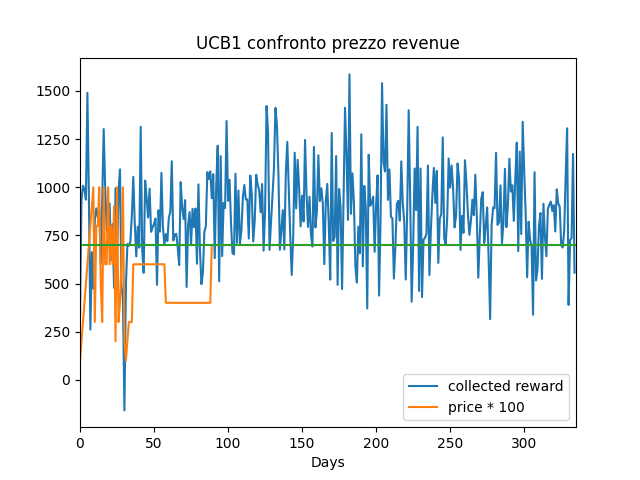
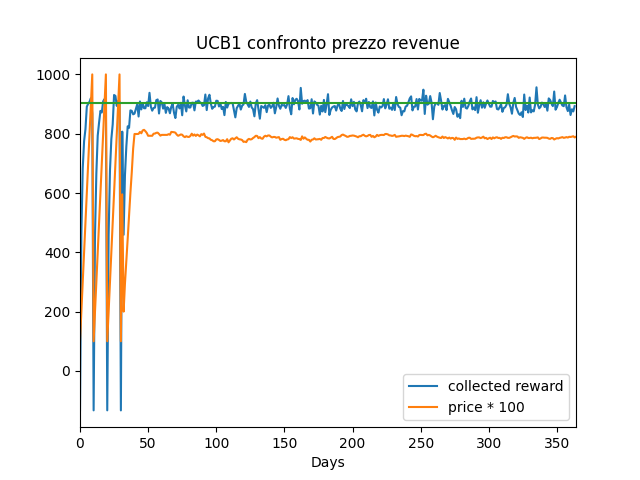
now p3 kind of works

diff --git a/P3.py b/P3.py
@@ -14,11 +14,11 @@ env = Environment()
 #prices range
 prices = numpy.linspace(1, 10, num=10)
 # bids range
-bids = [0.7]
+bids = [0.6]
 # day of algorithm execution
-T = 365
+T = 394
 # How many computation exectute
-N = 1
+N = 200
 
 
 def iterate_days(results_queue, idx=0):
@@ -70,6 +70,9 @@ def iterate_days(results_queue, idx=0):
             for c in range(new_users[user]):
                 daily_bought_items_per_class_ucb1[user] += env.buy(daily_price_ucb1, user + 1)
                 daily_bought_items_per_class_ts[user] += env.buy(daily_price_ts, user + 1)
+            '''daily_bought_items_per_class_ucb1[user] = round(env.get_conversion_rate(daily_price_ucb1, user + 1) * new_users[user])
+            daily_bought_items_per_class_ts[user] = round(env.get_conversion_rate(daily_price_ts, user + 1) * new_users[user])'''
+
 
         # Sum up the n. of bought items
         daily_bought_items_ucb1 = sum(daily_bought_items_per_class_ucb1)
@@ -86,10 +89,9 @@ def iterate_days(results_queue, idx=0):
         # Get delayed rewards
         next_30_days = [0] * 30
         for user in range(1, 4):
-            next_30_days = [
-                next_30_days[j] + env.get_next_30_days(daily_bought_items_per_class_ucb1[user - 1], daily_price_ucb1,
-                                                       user)[j]
-                for j in range(len(next_30_days))]
+            next_30_days = list(
+                map(add, next_30_days, env.get_next_30_days(daily_bought_items_per_class_ucb1[user - 1], daily_price_ucb1,
+                                                            user)))
         # point-wise list sum
         ucb1_learner.update_observations(daily_arm_ucb1, daily_revenue_ucb1, next_30_days)
 
@@ -167,7 +169,7 @@ if __name__ == '__main__':
     plots_folder = os.path.join(cwd, "plots")
     print("Plots folder: " + plots_folder)
 
-    value_line_to_plot = 700
+    value_line_to_plot = 904
     plot_line = True
 
     # Plot collected rewards
@@ -215,3 +217,24 @@ if __name__ == '__main__':
     pyplot.title('TS confronto prezzo revenue')
     pyplot.xlabel('Days')
     pyplot.savefig(os.path.join(plots_folder, 'TS confronto prezzo revenue.png'))
+
+    #calculate and plot mean regret
+    best_possible_reward = 904
+    mean_regret_ts = [best_possible_reward * x for x in range(1,T-28)]
+    mean_regret_ts = numpy.array(mean_regret_ts)
+
+    mean_regret_ts = numpy.add( mean_regret_ts , -1 * numpy.cumsum(mean_collected_rewards_ts))
+
+    mean_regret_ucb1 = [best_possible_reward * x for x in range(1,T-29)]
+
+    mean_regret_ucb1 = mean_regret_ucb1 - numpy.cumsum(mean_collected_rewards_ucb1)
+
+    pyplot.figure()
+    pyplot.plot(mean_regret_ts)
+    pyplot.plot(mean_regret_ucb1)
+
+    pyplot.legend(['mean_regret_ts', 'mean_regret_ucb1'])
+    pyplot.xlim([0, T - 30])
+    pyplot.title('confronto regret')
+    pyplot.xlabel('Days')
+    pyplot.savefig(os.path.join(plots_folder, 'confronto regret.png'))

diff --git a/ucb1.py b/ucb1.py
@@ -17,12 +17,14 @@ class UCB1Learner(Learner):
         :return: the arm to be pulled at the next round
         """
 
-        if self.t < 10:
+        if self.t <= 30:
             arm = self.t % self.n_arms
 
         else:
             upper_bound = self.empirical_means + self.confidence
+            #print('upper_bound: ' + str(upper_bound))
             arm = np.random.choice(np.where(upper_bound == upper_bound.max())[0])
+            #print('arm:' + str(arm))
 
         return arm
 
@@ -33,6 +35,9 @@ class UCB1Learner(Learner):
         :param delayedr: The future 30 rewards (delayed rewards)
         :return: none
         """
+
+        #print('arm, reward: ' + str(pulled_arm) + ', ' + str(sum(delayedr)+reward))
+
         if self.t <= 30:
             self.last30dayschoice.append(pulled_arm)
             self.delayedreward.append(sum(delayedr)+reward)
@@ -42,12 +47,11 @@ class UCB1Learner(Learner):
             self.delayedreward.pop(0)
             self.delayedreward.append(sum(delayedr)+reward)
 
-        # print(self.delayedreward)
+        #print('last30dayschoice: ' + str(self.last30dayschoice))
+        #print('delayedreward: ' + str(self.delayedreward))
 
-        if self.t==1:
-            # just remove the empty list at the beginning
-            self.delayedreward.pop(0)
-        elif self.t >= 30:
+
+        if self.t >= 30:
             self.collected_rewards=np.append(self.collected_rewards,self.delayedreward[0])
             self.rewards_per_arm[self.last30dayschoice[0]] += self.collected_rewards[-1]
             self.n_pulled_arms[self.last30dayschoice[0]] += 1
@@ -63,3 +67,5 @@ class UCB1Learner(Learner):
 
         # print("Collected rewards:")
         # print(self.collected_rewards)
+
+        #print('------')

diff --git a/P1.py b/P1.py
@@ -24,6 +24,9 @@ def get_bid_and_price_revenue(bid, price, customer_class):
 
     purchases = new_users_daily * buy_percentage
     revenue = purchases * (1+mean_comebacks) * env.get_margin(price) - new_users_daily * cost_per_click
+
+    print('bid, price, customer_class, revenue: ' + str(bid) +str(', ') + str(price) +str(', ')+ str(customer_class) +str(', ')+ str(revenue))
+
     return revenue
 
 
@@ -59,8 +62,8 @@ revenuesmatrix = revenuesmatrix.reshape(bids.size, prices.size)
 
 for i in range(bids.size):
     for j in range(prices.size):
-        for c in range(1, 4):
-            revenuesmatrix[i][j] += get_bid_and_price_revenue(bids[i], prices[j], c)
+        revenuesmatrix[i][j] = get_bid_and_price_revenue(bids[i], prices[j], 1) + get_bid_and_price_revenue(bids[i], prices[j], 2) +  get_bid_and_price_revenue(bids[i], prices[j], 3)
+
 
 best_bid = bids[np.unravel_index(np.argmax(revenuesmatrix), revenuesmatrix.shape)[0]]
 best_price = prices[np.unravel_index(np.argmax(revenuesmatrix), revenuesmatrix.shape)[1]]

diff --git a/tsgauss.py b/tsgauss.py
@@ -52,10 +52,7 @@ class TSLearnerGauss(Learner):
 
         self.t += 1
 
-        if self.t==1:
-            # just remove the empty list at the beginning
-            self.delayedreward.pop(0)
-        elif self.t >= 30:
+        if self.t >= 30:
             self.collected_rewards=np.append(self.collected_rewards,self.delayedreward[0])
             self.rewards_per_arm[self.last30dayschoice[0]] += self.collected_rewards[-1]
             self.n_pulled_arms[self.last30dayschoice[0]] += 1

diff --git a/prova.py b/prova.py
@@ -1,5 +1,3 @@
-from environment import Environment
+import numpy
 
-env = Environment()
-
-print(env.get_comeback_days(3))
+numpy.add(numpy.array([2, 1]), numpy.array([2, 1]))
